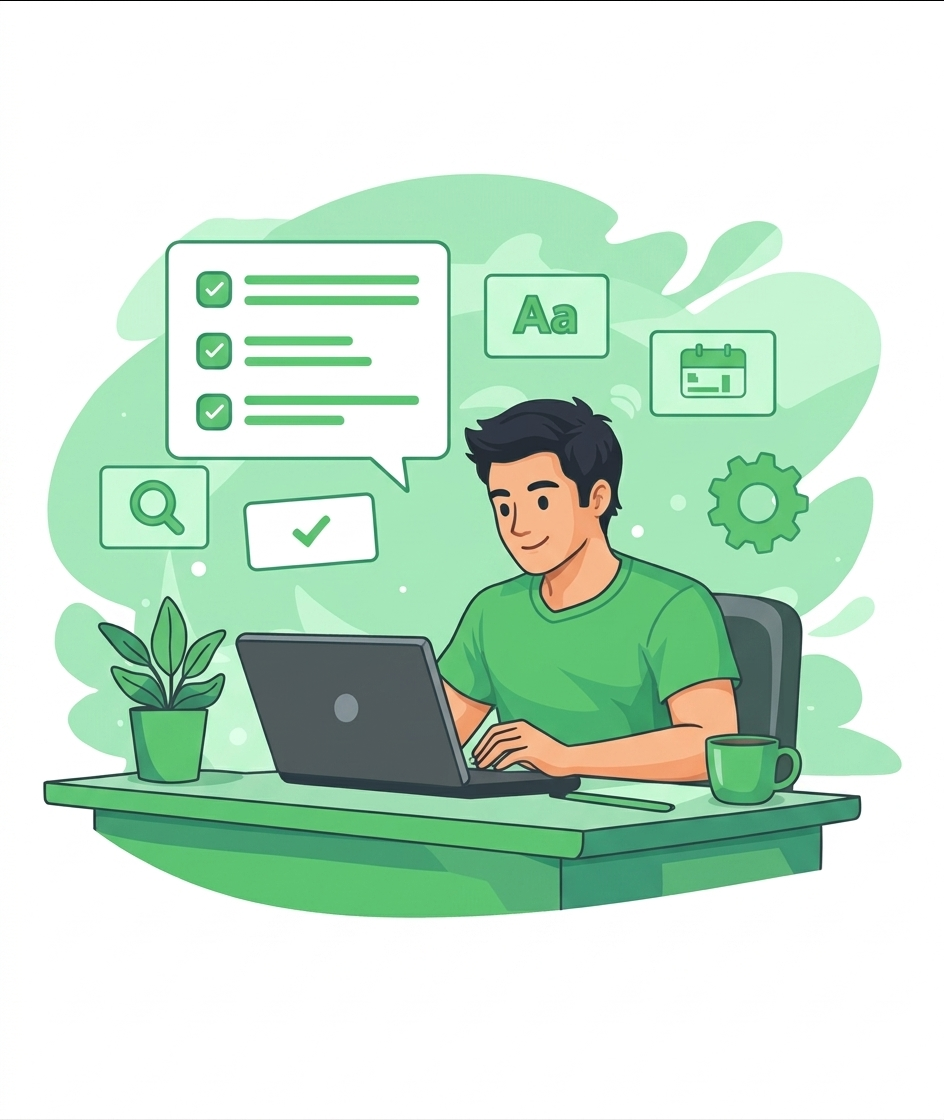
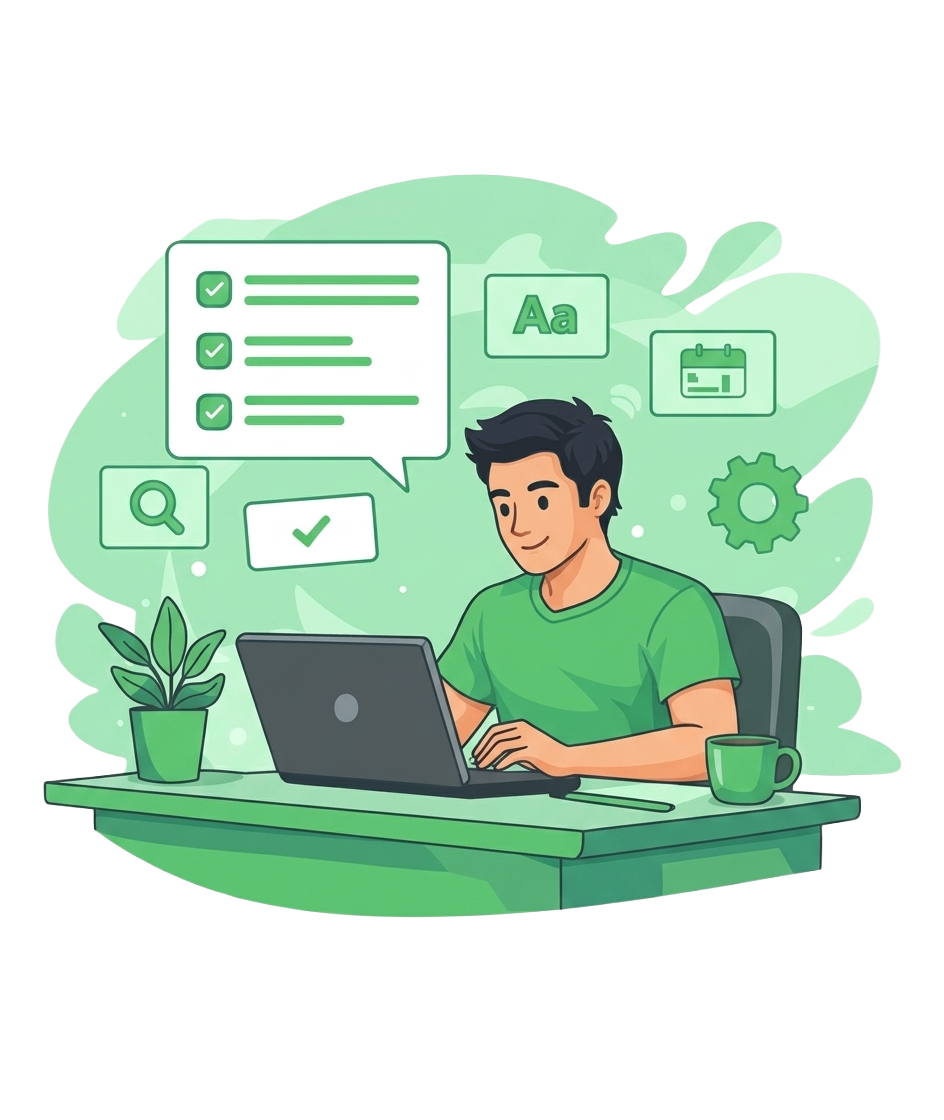
update files

diff --git a/packages/trpc/server/routes/auth/route.ts b/packages/trpc/server/routes/auth/route.ts
@@ -12,6 +12,7 @@ import {
 } from "@repo/services/user/model"
 const TAGS = ["Authentication"];
 const getPath = generatePath("/authentication");
+import { TRPCError } from "@trpc/server";
 
 
 
@@ -21,19 +22,47 @@ export const authRouter = router({
     method:'POST',
     path: getPath('/createUserWithEmailAndPassword'),
     tags: TAGS}
-  }).input(createUserWithEmailAndPasswordInputModel).output(createUserWithEmailAndPasswordOutputModel).mutation( async ({input, ctx})=>{
-    const {fullName, email, password} = input
+  })
+  .input(createUserWithEmailAndPasswordInputModel)
+  .output(createUserWithEmailAndPasswordOutputModel)
+  .mutation(async ({ input, ctx }) => {
+  try {
+    const { fullName, email, password } = input;
 
-    const {id} = await userService.createUserWithEmailAndPassword({
-      fullName, email, password
-    })
+    const { id } =
+      await userService.createUserWithEmailAndPassword({
+        fullName,
+        email,
+        password,
+      });
 
-    // setAuthenticationCookie(ctx, token)
+    return { id };
 
-    return{
-      id
+  } catch (error: any) {
+    console.log("AUTH ERROR:", error.message);
+    if (error.message === "USER_ALREADY_EXISTS") {
+      throw new TRPCError({
+        code: "CONFLICT",
+        message: "User already exists",
+      });
     }
-  }),
+
+    throw error;
+  }
+}),
+  // .mutation( async ({input, ctx})=>{
+  //   const {fullName, email, password} = input
+
+  //   const {id} = await userService.createUserWithEmailAndPassword({
+  //     fullName, email, password
+  //   })
+
+  //   // setAuthenticationCookie(ctx, token)
+
+  //   return{
+  //     id
+  //   }
+  // }),
 
   signInwithEmailAndPassword: publicProcedure.meta({openapi:{
     method:'POST',

diff --git a/apps/web/components/signup-form.tsx b/apps/web/components/signup-form.tsx
@@ -4,6 +4,7 @@
 import { useForm } from "react-hook-form";
 import { cn } from "~/lib/utils";
 import { Button } from "~/components/ui/button";
+import { toast } from "sonner";
 import {
   Card,
   CardContent,
@@ -43,6 +44,7 @@ export function SignupForm({
 
   const onSubmit = async (data: SignupFormData) => {
     try {
+      
       await createUserWithEmailAndPasswordAsync({
         email: data.email,
         fullName: data.name,
@@ -54,9 +56,26 @@ export function SignupForm({
 router.replace(
   `/verify-email-sent?email=${encodeURIComponent(data.email)}`
 )
-    } catch (err) {
-      console.error(err);
-    }
+    } catch (err: any) {
+  //   console.log("FULL ERROR:", err);
+  // console.log("DATA:", err?.data);
+  // console.log("SHAPE:", err?.shape);
+  // toast.error("Signup failed");
+
+  const errorCode =
+    err?.data?.code || err?.shape?.data?.code;
+
+  if (
+    err?.data?.code === "CONFLICT" ||
+    err?.shape?.data?.code === "CONFLICT"
+  ) {
+    toast.error("Email already registered");
+    return;
+  }
+
+  toast.error("Signup failed. Please try again.");
+}
+
   };
 
   return (

diff --git a/packages/services/user/index.ts b/packages/services/user/index.ts
@@ -29,6 +29,7 @@
 // export default UserService;
 
 import {randomBytes, createHmac} from 'node:crypto'
+// import  {TRPCError}  from "@trpc/server";
 import JWT  from 'jsonwebtoken'
 import {db, eq} from '@repo/database'
 import {usersTable} from '@repo/database/models/user'
@@ -101,7 +102,12 @@ class UserService{
 
     console.log("exstingUserWithEmail===>", exstingUserWithEmail);
     
-    if(exstingUserWithEmail) throw new Error(`User with ${email} ID aleary exist`);
+    if(exstingUserWithEmail) 
+// throw new TRPCError({
+//   code: "CONFLICT",
+//   message: "User already exists",
+// });
+      throw new Error(`User with ${email} ID aleary exist`);
 
     const salt = randomBytes(16).toString('hex');
     const hash = await this.generateUserHash(salt, password) 

diff --git a/apps/web/app/page.tsx b/apps/web/app/page.tsx
@@ -72,7 +72,7 @@ const user = useUser(false)
             Integrate →
           </a>
         </div>
-        <p className="text-sm text-gray-500 mt-2">No signup required</p>
+        <p className="text-sm text-gray-500 mt-2">Create, share, and analyze forms effortlessly.</p>
       </main>
       <Footer />
     </div>

diff --git a/apps/web/components/Header.tsx b/apps/web/components/Header.tsx
@@ -188,10 +188,10 @@ const Header = () => {
         ) : (
           /* Logged out */
           <Link
-            href="/login"
+            href="/signup"
             className="text-foreground hover:text-[#55C96B] transition"
           >
-            Sign In
+            Sign Up
           </Link>
         )}
 

diff --git a/README.md b/README.md
@@ -8,16 +8,16 @@ Built with a scalable monorepo architecture using **Next.js, tRPC, Node.js, Post
 
 ## Live Demo
 
-Frontend: https://your-frontend-url.com  
-API Docs: https://your-api-url.com/docs
+Frontend: https://www.buildforms.in/ 
+API Docs: https://build-forms.onrender.com/docs
 
 ---
 
 ## Demo Credentials
 
 ### Demo User
-Email: demo@buildforms.in  
-Password: Demo@123
+Email: ravi8555@gmail.com 
+Password: Ravindra@123456
 
 ---
 
@@ -373,7 +373,7 @@ apps/web/.env.local
 Example:
 
 ```env
-NEXT_PUBLIC_API_URL=http://localhost:8000
+NEXT_PUBLIC_API_URL=http://localhost:8000/trpc
 ```
 
 ---
